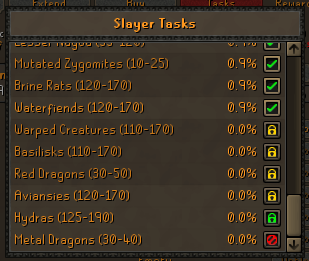
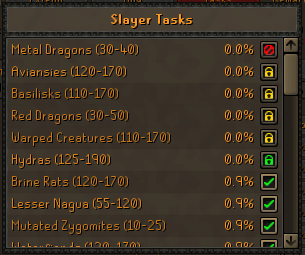
Fix secondary sorting order

diff --git a/src/main/java/com/mjhylkema/SlayerTaskSorter/SlayerTaskSorterPlugin.java b/src/main/java/com/mjhylkema/SlayerTaskSorter/SlayerTaskSorterPlugin.java
@@ -99,7 +99,6 @@ public class SlayerTaskSorterPlugin extends Plugin
 			for (int i = 0; i < drawableChildren.length - 3; i++) {
 				if (isTaskRow(drawableChildren, i)) {
 					String friendlyName = extractFriendlyName(drawableChildren[i].getText());
-					log.info("Drawable: " + friendlyName);
 					entries.add(new TaskEntry(
 						this, getOnOpListenerWidgetFromName(clickableChildren, friendlyName),
 						drawableChildren[i],
@@ -157,18 +156,23 @@ public class SlayerTaskSorterPlugin extends Plugin
 		Comparator<TaskEntry> comparator = null;
 		switch (config.sortingMethod()) {
 			case SORT_BY_NAME:
-				comparator = Comparator.comparing(TaskEntry::getFriendlyName);
+				comparator = Comparator.comparing(TaskEntry::getFriendlyName, config.reverseSort()
+					? Comparator.nullsLast(Comparator.reverseOrder())   // ascending
+					: Comparator.nullsLast(Comparator.naturalOrder())   // descending
+					);
 				break;
 			case SORT_BY_WEIGHTING:
-				comparator = Comparator.comparing(TaskEntry::getWeighting, Comparator.nullsLast(Double::compareTo))
-					.reversed()
+				comparator = Comparator.comparing(TaskEntry::getWeighting, config.reverseSort()
+					? Comparator.nullsLast(Comparator.naturalOrder())   // ascending
+					: Comparator.nullsLast(Comparator.reverseOrder())   // descending
+					)
 					.thenComparing(entry -> entry.getStatus().getSortOrder())
-					.thenComparing(TaskEntry::getFriendlyName, Comparator.nullsLast(String::compareTo));
+					.thenComparing(TaskEntry::getFriendlyName);
 				break;
 		}
 
 		if (comparator != null) {
-			entries.sort(config.reverseSort() ? comparator.reversed() : comparator);
+			entries.sort(comparator);
 		}
 
 		for (int i = 0; i < entries.size(); i++) {
